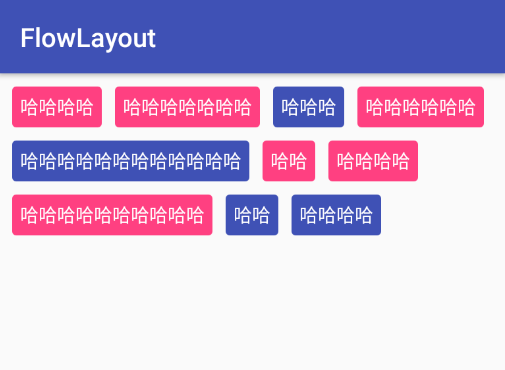
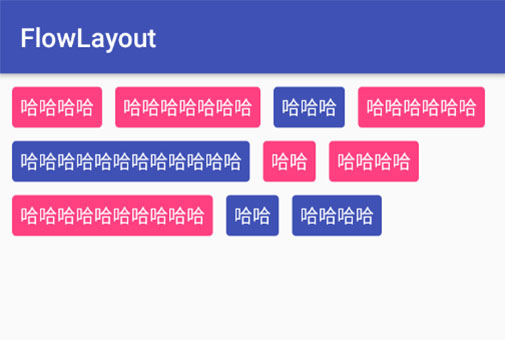
init

diff --git a/README.md b/README.md
@@ -1,9 +1,9 @@
 FlowLayout
 =========
 
-<img src='image/1.jpg' height='500px'/>
-<img src='image/2.jpg' height='500px'/>
-<img src='image/3.jpg' height='500px'/>
+<img src='image/1.jpg' height='340px'/>
+<img src='image/2.jpg' height='340px'/>
+<img src='image/3.jpg' height='340px'/>
 
 ## How to use
 
